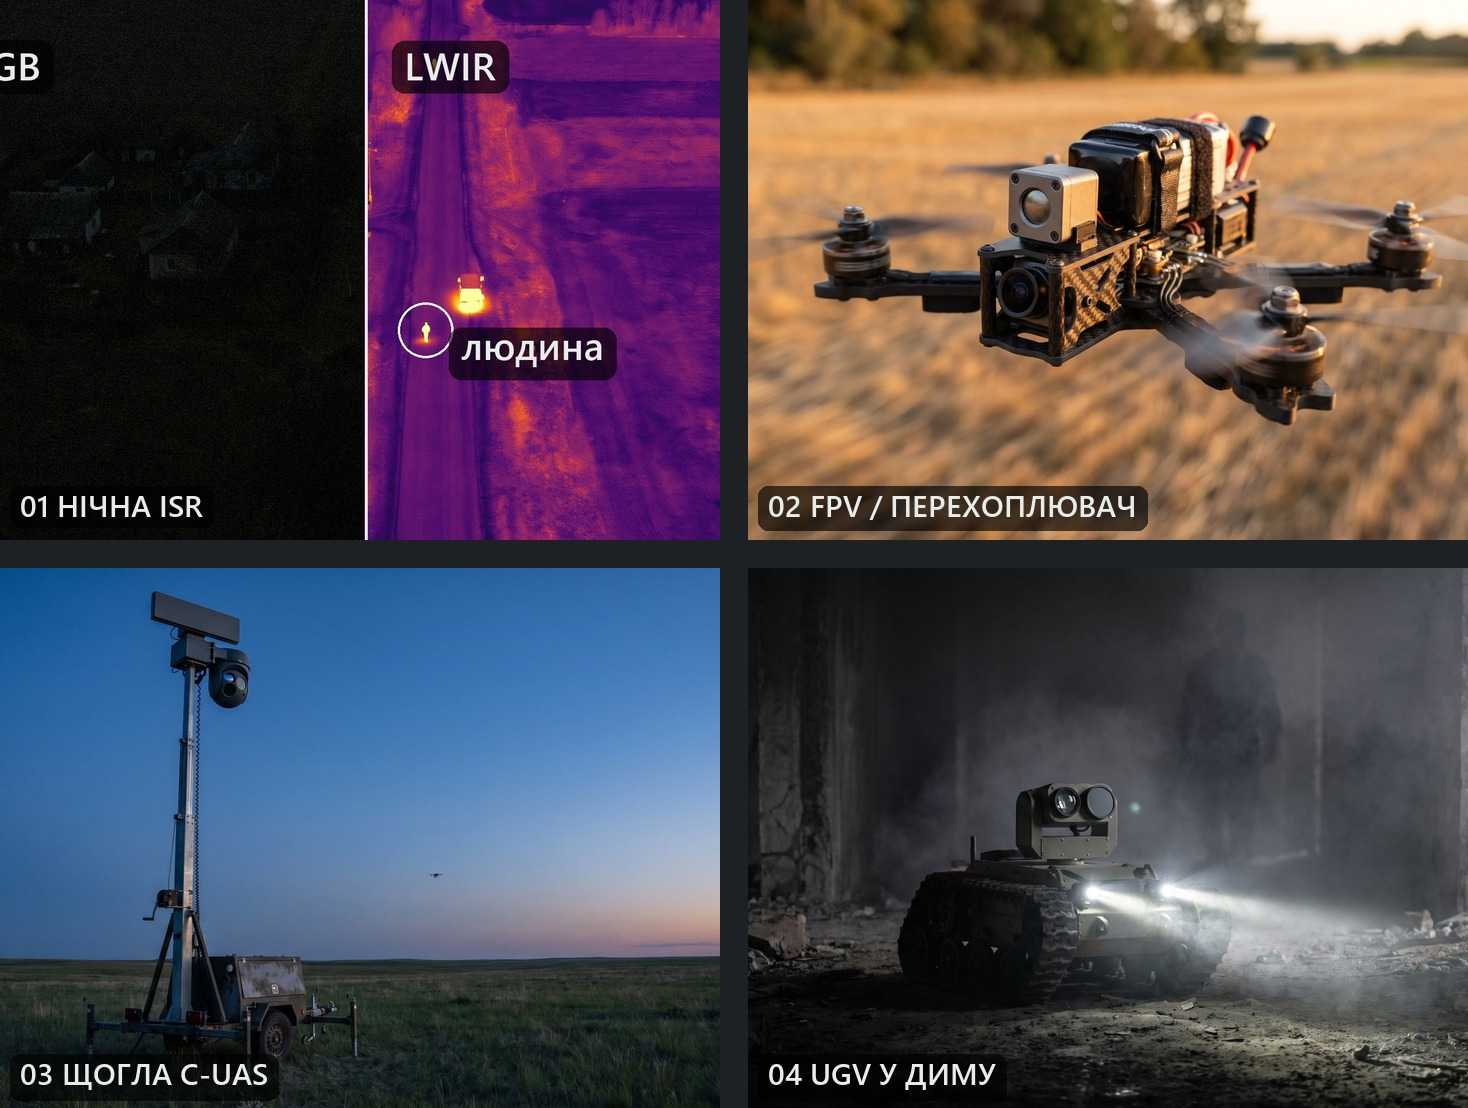
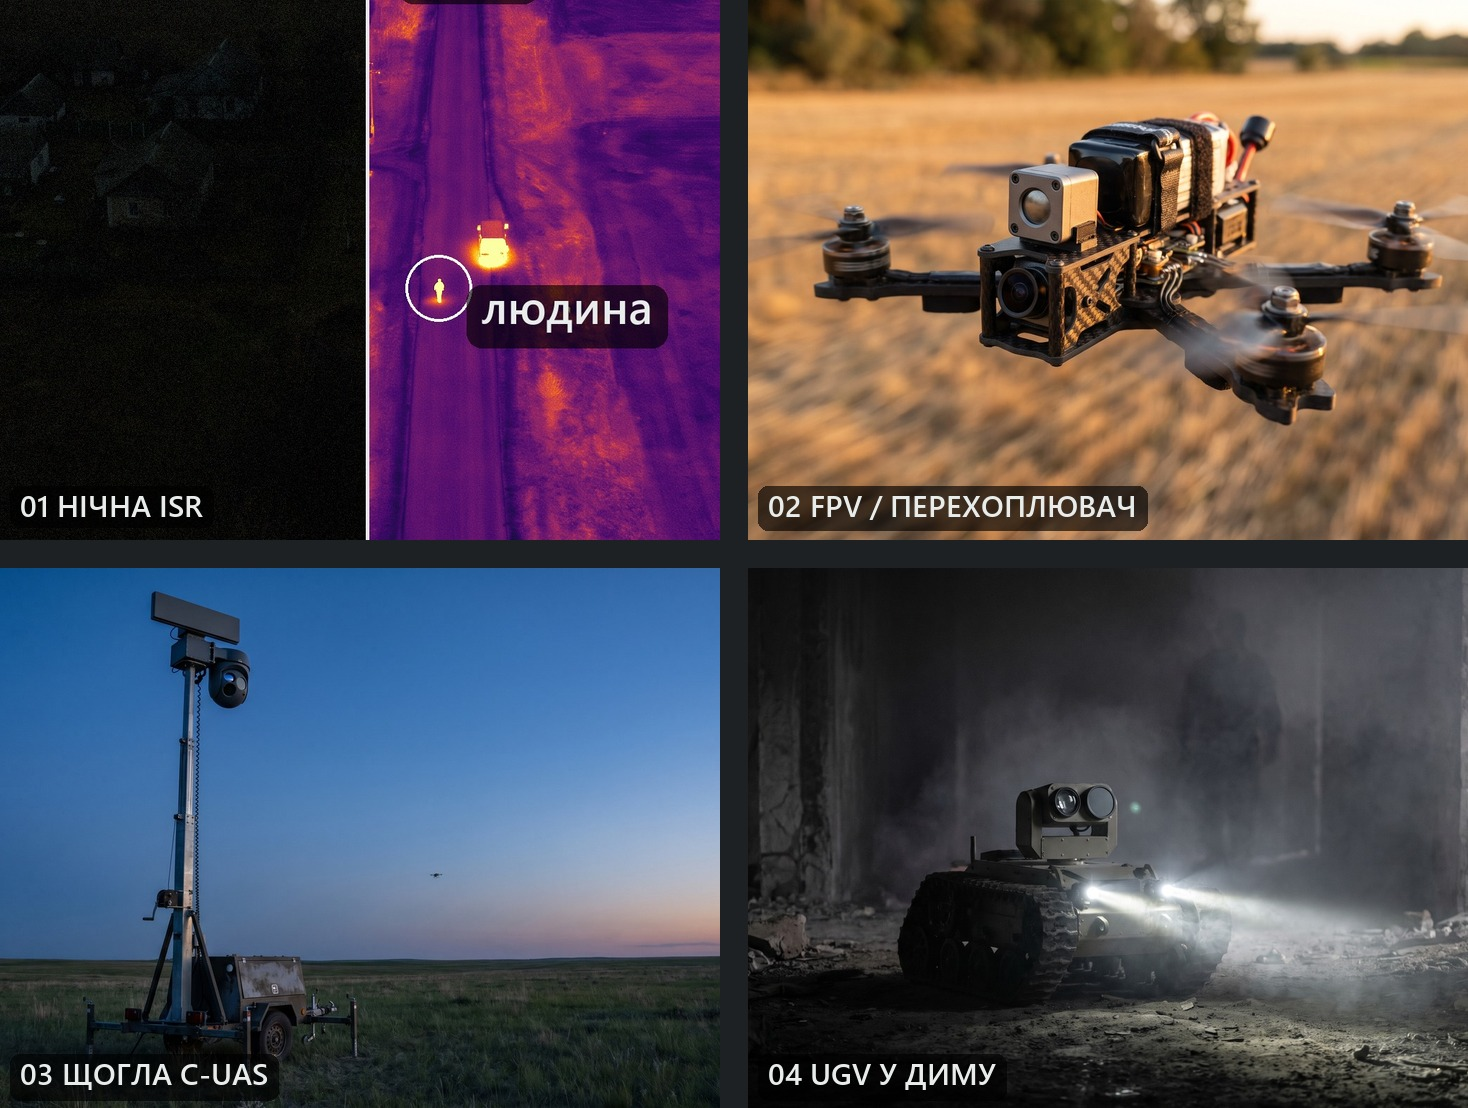
Lesson 13: platform grid without the cropped RGB tag

Changed region(s): [[0.2452, 0.0, 0.4905, 0.491], [0.0, 0.0307, 0.0307, 0.0921], [0.0613, 0.1841, 0.092, 0.2148]]

diff --git a/scripts/l13_gen.py b/scripts/l13_gen.py
@@ -100,7 +100,8 @@ def platforms():
         save(band(im, 416 / 130, top), f"p_{key}_strip.jpg")
         W, H = im.size
         w = int(H * 4 / 3)
-        t = im.crop(((W - w) // 2, 0, (W - w) // 2 + w, H)).resize((720, 540), Image.LANCZOS)
+        box = (220, 150, 1220, 900) if key == "isr" else ((W - w) // 2, 0, (W - w) // 2 + w, H)   # below the RGB / LWIR tags
+        t = im.crop(box).resize((720, 540), Image.LANCZOS)
         tag(t, (20, 484), label, 30)
         tiles.append(t)
     gap = 28
